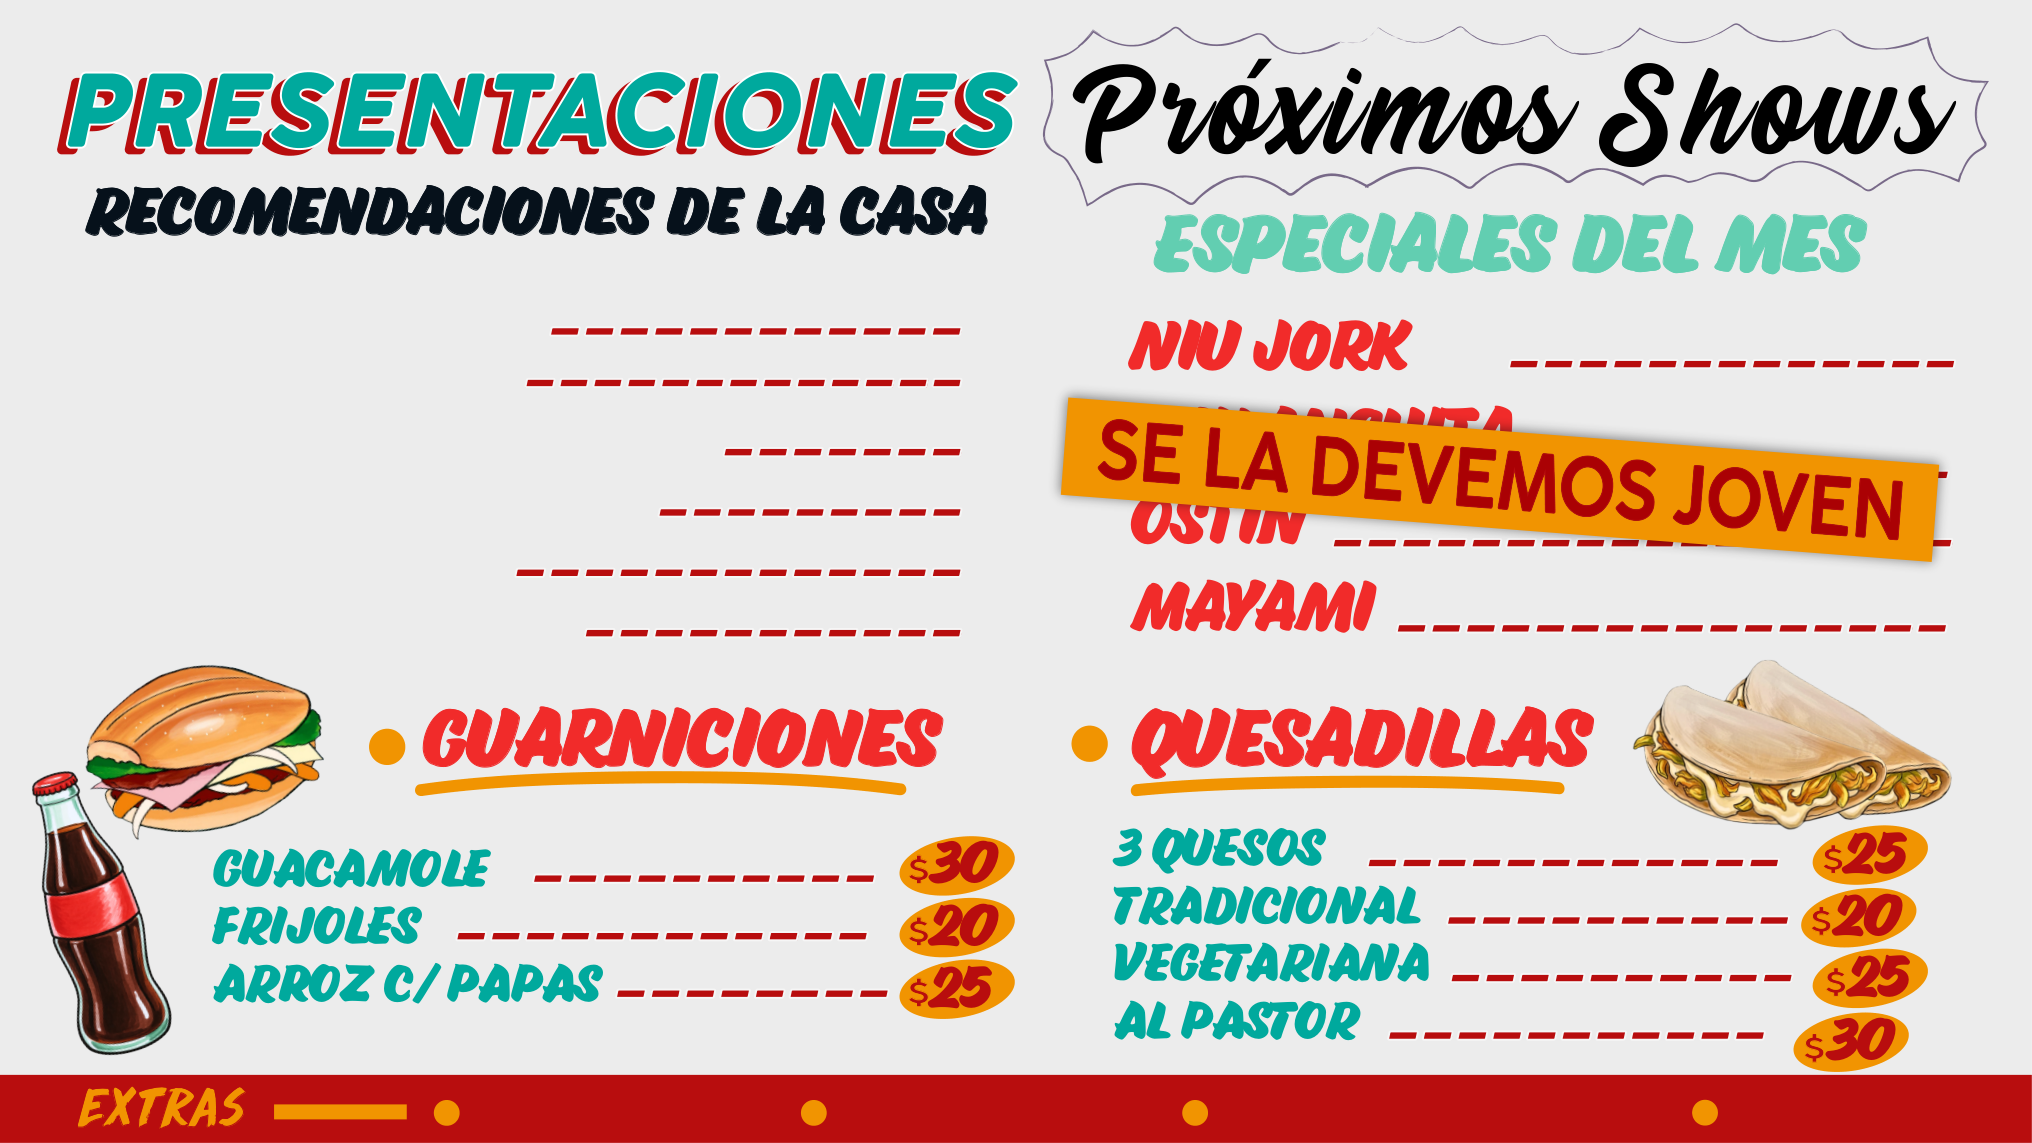
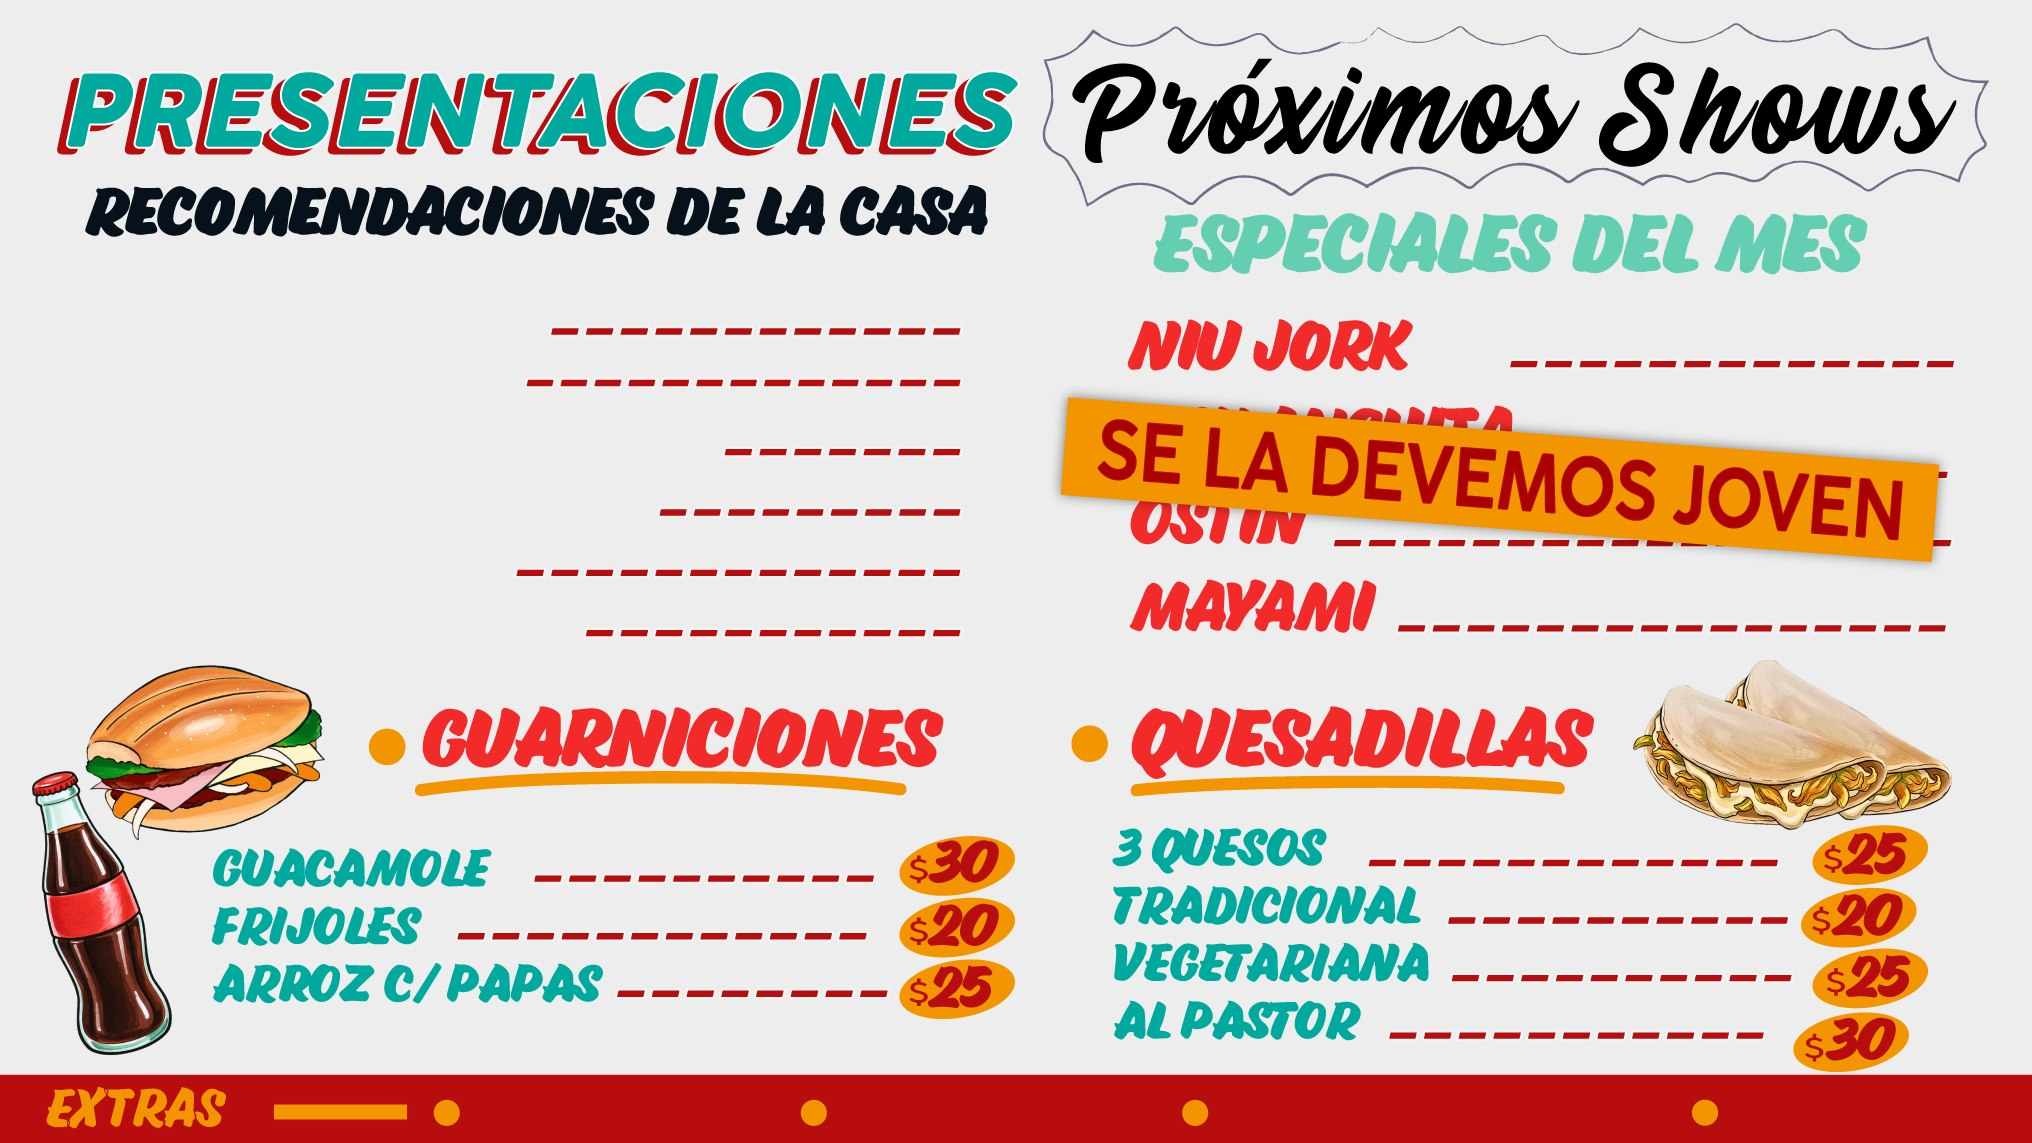
Compu: numero Echame a la derecha (libre del WhatsApp), scaleY 1.1 (no aplastado); nuevo fondo PROXIMOS SHOWS (menu refresh de Ani v10)

diff --git a/preview/compu/index.html b/preview/compu/index.html
@@ -128,7 +128,7 @@
   #sec-echame .ech-tt{left:61.042%;top:64.064%;width:5.143%;height:10.619%;transform:rotate(7.653deg)}
   /* NÚMERO telefónico como TEXTO VIVO (brush-up, igual que la versión móvil) sobre la placa metálica,
      para que el rayo de luz recorte las letras. Secuencia del rayo: Teléfono(0s)→FB(1.6s)→IG(3.2s)→Email(4.8s)→TikTok(6.4s). */
-  #sec-echame .ech-phone{position:absolute;left:47.86%;top:54.25%;transform:translate(-50%,-50%) rotate(-0.6deg) scaleY(1.18);
+  #sec-echame .ech-phone{position:absolute;left:48.6%;top:54.25%;transform:translate(-50%,-50%) rotate(-0.6deg) scaleY(1.1);
     font-family:'brush-up','swiss-721-bt',cursive;font-size:2.02cqw;line-height:1;white-space:nowrap;color:#2b2b2b;
     -webkit-text-stroke:0;letter-spacing:0.08em;pointer-events:none;z-index:3}
   #sec-echame .ech-phone::after{content:attr(data-text);position:absolute;left:0;top:0;width:100%;
@@ -282,7 +282,7 @@
   <a class="stool-btn" href="https://open.spotify.com/intl-es/artist/3FP0UgKEa2aprodn6KboaK?si=-AWuDIanTuG5j1IO5Itlcw" target="_blank" rel="noopener" aria-label="Spotify" style="left:56.3%;top:80.5%;width:4.7cqw"><img src="../sitio/assets/logo-spotify.webp?v=604" alt="Spotify" decoding="async"></a>
 </div></section>
 <div class="dmarquee" role="img" aria-label="Próximos Shows"><div class="dtrack"><img src="../sitio/assets/compu/divtext-proximos.png?v=10" alt="Próximos Shows"><img src="../sitio/assets/compu/divtext-proximos.png?v=10" alt="" aria-hidden="true"></div></div>
-<section class="dsec reveal" id="sec-proximos"><img class="bg" src="../sitio/assets/compu/bg-proximos.webp?v=9" alt="Proximos Shows - menu del changarro" loading="lazy" decoding="async"><div class="ovl">
+<section class="dsec reveal" id="sec-proximos"><img class="bg" src="../sitio/assets/compu/bg-proximos.webp?v=10" alt="Proximos Shows - menu del changarro" loading="lazy" decoding="async"><div class="ovl">
 <div class="ct dl-row" style="left:3.5%;top:28.96%"><span class="m">JUN</span><span class="d">07</span><a class="c" href="#sec-proximos" data-text="PUEBLA">PUEBLA</a></div>
 <div class="ct dl-row" style="left:3.5%;top:33.46%"><span class="m">JUL</span><span class="d">14</span><a class="c" href="#sec-proximos" data-text="CDMX">CDMX</a></div>
 <div class="ct dl-row" style="left:3.5%;top:39.55%"><span class="m">AGO</span><span class="d">22</span><a class="c" href="#sec-proximos" data-text="GUADALAJARA">GUADALAJARA</a></div>
